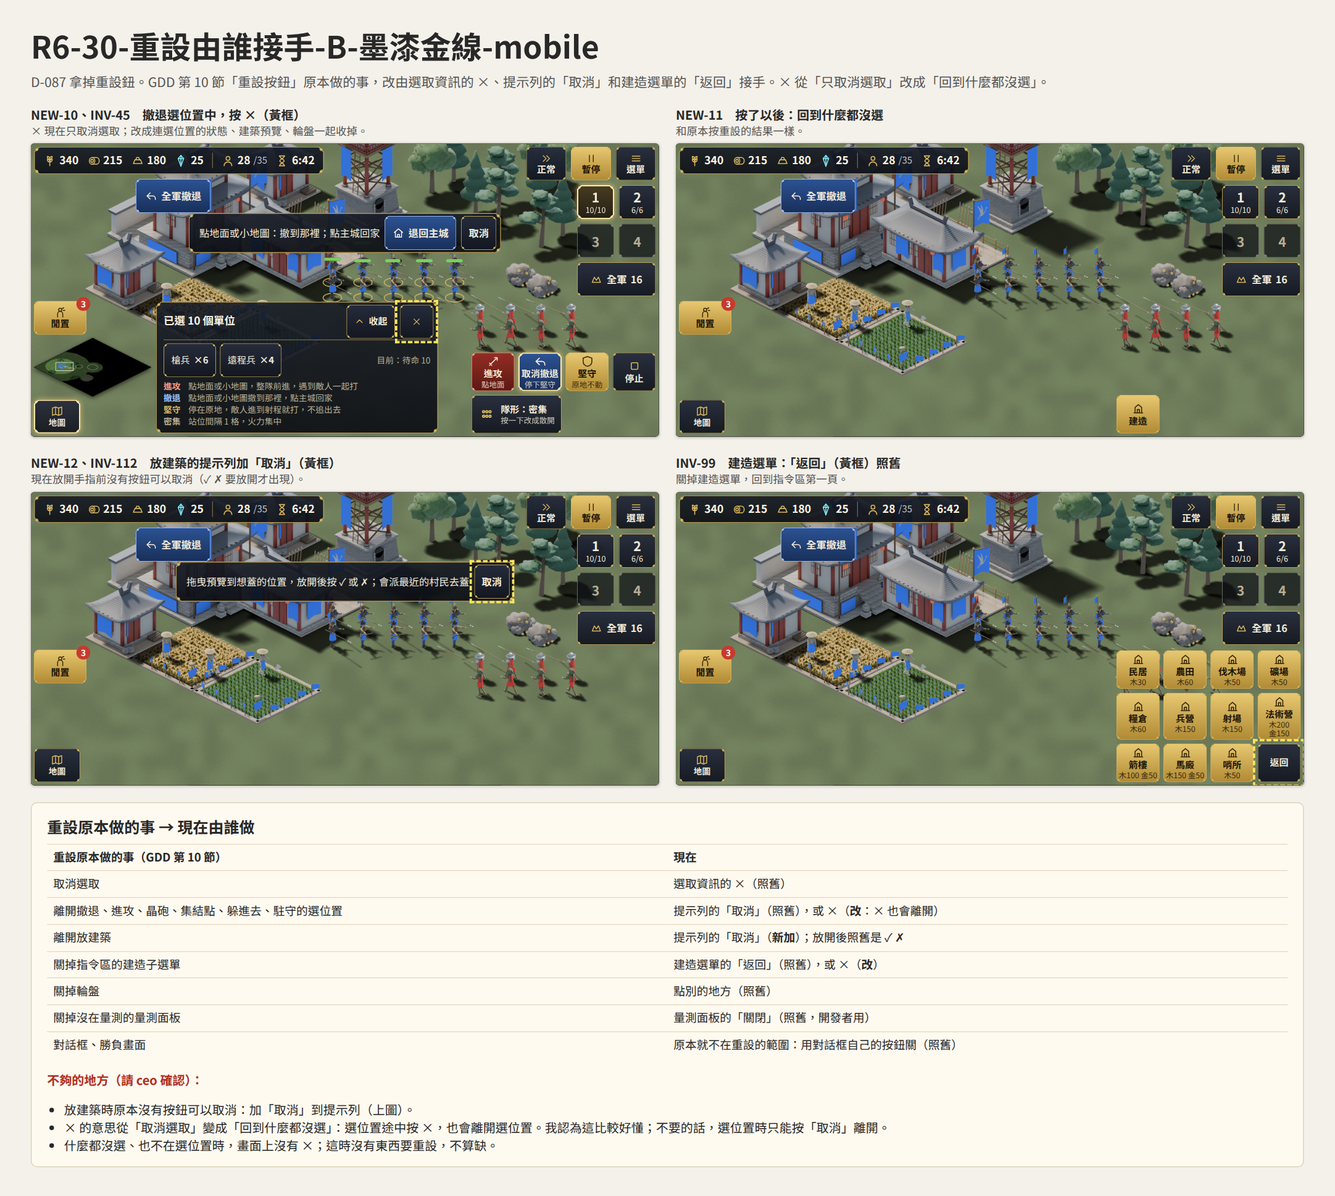
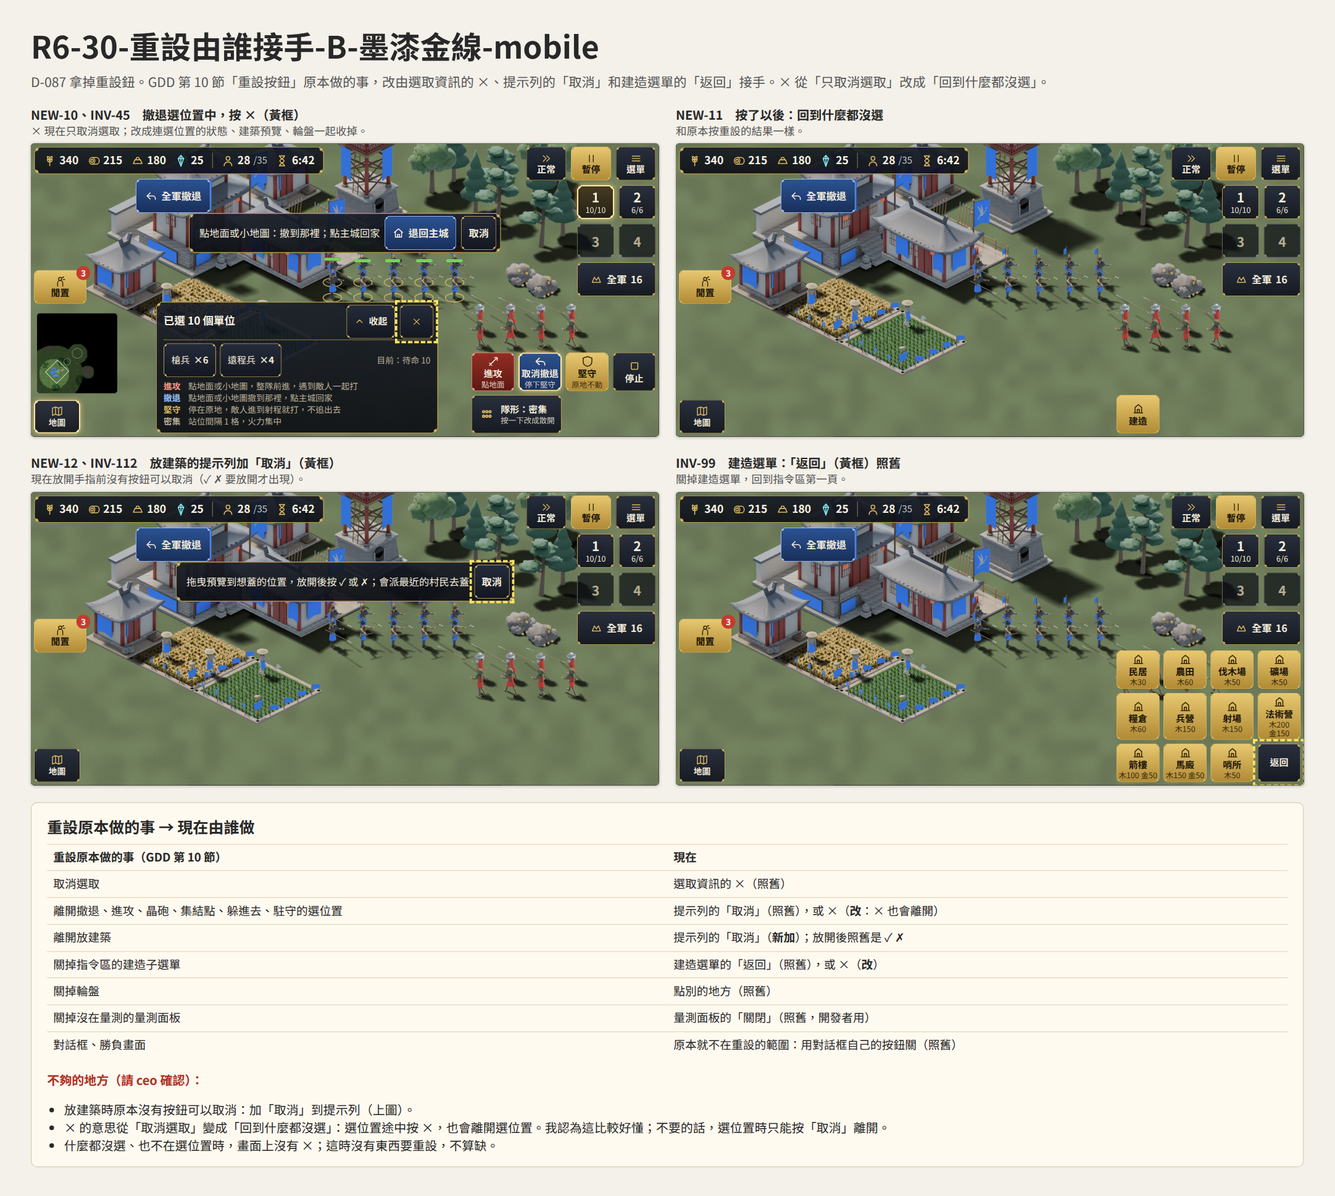
R6：使用者看過整套的兩項修改——小地圖改方形、攻下城鎮的對話框只留一個「留守」
- 使用者 2026-10-19：「小地圖用正方形。留守只需要一個統一的就好，反正野只能選一種」。
- 小地圖：方形 112×112，放在地圖鈕上方；戰場照舊是菱形，所以鏡頭框是斜的。開局、被攻擊、
  開局提示三種也改方形。閒置和全體回城往上移 40 pt，地圖打開時不會被擋住（不論開或關，位置都一樣）。
- 攻下對話框：搶和治理共用一個「留守 − N + 名」，在兩個大按鈕下面；預設小鎮 1、大城 3（D-084），
  只能治理時也一樣。spec.md 的 R6-20 加了規則。
- 重拍有改到的設計稿和動畫 02、06、07；R6-18 只有反鋸齒的差別，保留原檔。

diff --git a/design/r6/mock/states.js b/design/r6/mock/states.js
@@ -12,9 +12,9 @@
     "INV-38": { left: { idle: 0, map: "closed" } },                          // 沒有閒置的村民：閒置鈕不出現
     "INV-39": { left: { idle: 3, map: "closed" } },                          // 有閒置的村民
     "INV-40": { left: { idle: 3, map: "open" } },                            // 地圖打開
-    "INV-41": { left: { idle: 0, map: "open", minimap: "minimap-diamond-start" }, sel: null, cmds: "none", hp: false, field: "field-THEME-plain" },
-    "INV-42": { left: { idle: 3, map: "open", minimap: "minimap-diamond-hit" }, arrows: [{ x: 600, y: 40, r: -90 }] },
-    "INV-43": { left: { idle: 0, map: "open", minimap: "minimap-diamond-hint" }, sel: null, cmds: "none", hp: false, field: "field-THEME-plain" },
+    "INV-41": { left: { idle: 0, map: "open", minimap: "minimap-square-start" }, sel: null, cmds: "none", hp: false, field: "field-THEME-plain" },
+    "INV-42": { left: { idle: 3, map: "open", minimap: "minimap-square-hit" }, arrows: [{ x: 600, y: 40, r: -90 }] },
+    "INV-43": { left: { idle: 0, map: "open", minimap: "minimap-square-hint" }, sel: null, cmds: "none", hp: false, field: "field-THEME-plain" },
     "NEW-01": { left: { idle: 3, map: "closed" }, sel: null, cmds: "none", hp: false, field: "field-THEME-plain" },   // 地圖收著
     "NEW-02": { left: { idle: 3, map: "closed", recall: "hit" }, sel: null, cmds: "none", hp: false, field: "field-THEME-raid",
                 arrows: [], toast: "家裡被攻擊：主城附近有敵兵" },
@@ -22,7 +22,7 @@
     "NEW-03": { left: { idle: 3, map: "open" }, ret: "active",                // 撤退選位置：小地圖自動打開
                 prompt: { text: "點地面或小地圖：撤到那裡；點主城回家", buttons: [B("退回主城", { ic: "home", cls: "blue" }), B("取消", { cls: "sec" })] } },
     "NEW-04": { left: { idle: 3, map: "closed", alarm: 2 }, arrows: [{ x: 600, y: 40, r: -90 }, { x: 40, y: 150, r: 180 }] },   // 收著時被攻擊
-    "NEW-05": { left: { idle: 3, map: "open", minimap: "minimap-diamond-hit" }, arrows: [{ x: 600, y: 40, r: -90 }] },
+    "NEW-05": { left: { idle: 3, map: "open", minimap: "minimap-square-hit" }, arrows: [{ x: 600, y: 40, r: -90 }] },
   });
   // ----- R6-22 地圖鈕收著時的警報（兩格：亮、暗，0.4 秒換一次；減少動態效果時一直是亮的那格）
   S["NEW-04b"] = { left: { idle: 3, map: "closed", alarm: 2, dim: true }, arrows: [{ x: 600, y: 40, r: -90 }, { x: 40, y: 150, r: 180 }] };
@@ -201,8 +201,9 @@
   const capture = (city, only) => D(only ? `攻下${city ? "大城" : "小鎮"}！只能治理` : `攻下${city ? "大城" : "小鎮"}！搶還是治理？`,
     `<div class="big2">${only ? "" : B("搶", { cls: "plunder", sub: `部隊留下搶 ${city ? 25 : 15} 秒，拿一大筆糧、金、魔晶；城鎮變成廢墟 4 分鐘` })}` +
     `${B("治理", { cls: "govern", sub: `投入金和木修繕 ${city ? 60 : 45} 秒，之後每分鐘產出、加人口；要留兵駐守` })}</div>` +
-    (only ? `<p class="small">這座城這局已經被搶過，只能治理</p>` : `<div class="stayrow">搶：留守 ${B("−", { cls: "sec" })}<span class="num">${city ? 3 : 1}</span>${B("+", { cls: "sec" })} 名</div>`) +
-    `<div class="stayrow">治理：留守 ${B("−", { cls: "sec" })}<span class="num">${city ? 3 : 1}</span>${B("+", { cls: "sec" })} 名</div>` +
+    (only ? `<p class="small">這座城這局已經被搶過，只能治理</p>` : "") +
+    // one stepper for both choices (the user 2026-10-19: 「留守只需要一個統一的就好，反正野只能選一種」); D-084: small 1, big 3
+    `<div class="stayrow">留守 ${B("−", { cls: "sec" })}<span class="num">${city ? 3 : 1}</span>${B("+", { cls: "sec" })} 名</div>` +
     `<p class="small">留守的兵改成堅守，不跟「全軍」走，也會離開原本的編隊。</p>` + btns(B("稍後再決定（點城鎮也能選）", { cls: "sec" })));
   const hint = (random, off) => D("魔晶從城鎮來", `<p>法師要用魔晶。魔晶主要從城鎮來：帶兵打倒城裡的民兵，就能選「搶」或「治理」。</p>
     <p>搶：馬上拿到一筆糧、金和魔晶，每座城一局只能搶一次。治理：修好之後，每分鐘都有魔晶。</p>
@@ -222,8 +223,8 @@
     "INV-121": { dialog: D("預留", `<p class="small">自動訓練只用超過這些的資源；預設留的夠蓋法術營、放 3 發晶砲。</p>` + rv("糧", 150) + rv("木", 200) + rv("金", 150) + rv("魔晶", 15) +
       btns(B("預設", { cls: "sec" }), B("取消", { cls: "sec" }), B("套用", { cls: "pri" }))) },
     "INV-122": { dialog: capture(false, false) }, "INV-123": { dialog: capture(true, false) }, "INV-124": { dialog: capture(false, true) },
-    "INV-125": { dialog: hint(false, false), top: { paused: true }, left: { idle: 0, map: "open", minimap: "minimap-diamond-hint" }, ...NOSEL },
-    "INV-126": { dialog: hint(true, false), top: { paused: true }, left: { idle: 0, map: "open", minimap: "minimap-diamond-start" }, ...NOSEL },
+    "INV-125": { dialog: hint(false, false), top: { paused: true }, left: { idle: 0, map: "open", minimap: "minimap-square-hint" }, ...NOSEL },
+    "INV-126": { dialog: hint(true, false), top: { paused: true }, left: { idle: 0, map: "open", minimap: "minimap-square-start" }, ...NOSEL },
     "INV-127": { dialog: hint(false, true) },
   });
   // ----- R6-21 勝負

diff --git a/design/r6/mock/boards.js b/design/r6/mock/boards.js
@@ -3,7 +3,7 @@
 window.R6_BOARDS = {
   "R6-13": {
     id: "R6-13", name: "左邊",
-    sub: "左邊照 D-087 選的 C「需要時才出現」：重設拿掉（由 × 和「取消」接手，見 R6-30），閒置只在有閒置的村民時出現，全體回城只在家裡被打時跳出來，小地圖收進「地圖」鈕（菱形，D-087）。每格是實際大小（1 pt = 1 px 的兩倍放大）。",
+    sub: "左邊照 D-087 選的 C「需要時才出現」：重設拿掉（由 × 和「取消」接手，見 R6-30），閒置只在有閒置的村民時出現，全體回城只在家裡被打時跳出來，小地圖收進「地圖」鈕。小地圖是方形（使用者 2026-10-19）：戰場是斜 45 度的菱形，所以小地圖上的鏡頭框是斜的。",
     rows: [
       [{ state: "INV-38", inv: ["INV-35", "INV-36", "INV-38"], cap: "平常：左邊只剩「地圖」鈕", note: "沒有閒置的村民、家裡沒被打。重設鈕拿掉（INV-35），全體回城平常收在選單（INV-36）。" },
        { state: "INV-39", inv: ["INV-39"], cap: "有閒置的村民：閒置鈕出現", note: "紅點是人數。點一下跳到下一名，長按全選（照舊）。" }],
@@ -21,7 +21,7 @@ window.R6_BOARDS = {
       <tr><td>回去工作</td><td>玩家按了全體回城（跳出來的、或選單裡的），村民躲著時</td><td>同一個位置</td><td>玩家按了它（村民回去工作）</td></tr>
       <tr><td>選單裡的全體回城</td><td>一直都在；村民躲著時寫「回去工作」</td><td>選單（R6-20）</td><td>—</td></tr>
       <tr><td>地圖鈕</td><td>一直都在</td><td>左下</td><td>—</td></tr>
-      <tr><td>小地圖</td><td>按地圖鈕；或進攻、撤退開始選位置時自動打開</td><td>地圖鈕上方</td><td>再按地圖鈕；自動打開的，在選好位置或取消時收回</td></tr>
+      <tr><td>小地圖（方形 112×112）</td><td>按地圖鈕；或進攻、撤退開始選位置時自動打開</td><td>地圖鈕上方</td><td>再按地圖鈕；自動打開的，在選好位置或取消時收回</td></tr>
     </table><ul><li>全體回城只提醒，不會自己叫村民回城，也不會自己讓他們回去工作。</li>
       <li>12 格、15 秒是建議值，原型試玩後可以調。</li></ul>`,
   },
@@ -134,7 +134,11 @@ Object.assign(window.R6_BOARDS, {
       [c("INV-113", ["INV-113"], "放建築：離民兵太近的警告（第二行）", PROMPT), c("INV-114", ["INV-114"], "放開手指：✓ ✗（可以蓋）", [330, 200, 320, 130])],
       [c("INV-115", ["INV-115", "INV-142"], "放開手指：預覽紅、✓ 不能按", [330, 200, 320, 130])]] },
   "R6-20": { id: "R6-20", name: "對話框",
-    sub: "對話框開著時全畫面暗下來，用對話框自己的按鈕關。選單多了「全體回城」（D-087：平常收在這裡，村民躲著時變「回去工作」）和「設定」（介面風格 A／B）。實際大小。",
+    sub: "對話框開著時全畫面暗下來，用對話框自己的按鈕關。選單多了「全體回城」（D-087：平常收在這裡，村民躲著時變「回去工作」）和「設定」（介面風格 A／B）。攻下城鎮的對話框只有一個「留守」（使用者 2026-10-19）。實際大小。",
+    rules: `<h2>規則（給 client）</h2><ul>
+      <li>攻下城鎮的對話框：搶和治理共用一個「留守 − N + 名」，放在兩個大按鈕下面；選搶或選治理，都照這個數字留兵。</li>
+      <li>預設照 D-084：小鎮 1 名、大城 3 名，扣掉已經在那裡留守的；不能少於 0，也不能多於城鎮範圍內可以留守的兵。</li>
+      <li>只能治理（這局搶過）時，一樣只有這一個。說明那一行照舊：「留守的兵改成堅守，不跟『全軍』走，也會離開原本的編隊。」</li></ul>`,
     rows: [[F("INV-117", ["INV-116", "INV-117"], "選單"), F("NEW-06", ["NEW-06"], "選單：村民躲著時是「回去工作」")],
       [F("NEW-07", ["NEW-07"], "設定：介面風格（A 銅木，預設）", "點一下就換，馬上生效，下次打開也照這個。"), F("NEW-08", ["NEW-08"], "設定：選了 B 墨漆金線")],
       [F("INV-118b", ["INV-118"], "兵種相剋（有騎兵時四列）"), F("INV-118a", ["INV-118"], "兵種相剋（三列）")],

diff --git a/design/r6/mock/ui.css b/design/r6/mock/ui.css
@@ -1,11 +1,11 @@
 /* R6 B.3: layout of the formal interface on top of themes.css (the looks). D-087: left column C, diamond minimap. */
 
 /* left: 全體回城 (only when home is hit), 閒置 (only while someone idles), the 地圖 button and the minimap it opens */
-.recall { left: 4px; bottom: 186px; }
+.recall { left: 4px; bottom: 224px; }
 .recall .b { width: 100px; min-height: 50px; flex-direction: column; gap: 0; padding: 3px 0 4px; }
 .recall .b .lb { font-size: 13px; line-height: 1.15; }
 .recall .b .sub { line-height: 1.1; }
-.idlebox { left: 4px; bottom: 132px; }
+.idlebox { left: 4px; bottom: 172px; }
 .idlebox .b { width: 68px; flex-direction: column; gap: 1px; padding: 2px 0; }
 .idlebox .b .lb { font-size: 12px; line-height: 1.05; }
 .idlebox .cnt, .maptab .badge { position: absolute; top: -5px; right: -5px; min-width: 18px; height: 18px; padding: 0 4px; border-radius: 9px;
@@ -237,5 +237,5 @@
 .screen:not(:has(.sel)) > .toast { bottom: 110px; }
 
 /* R6-04: the square minimap of a square map, in a framed panel */
-.screen > .minimap.sqmap { width: 120px; height: 120px; padding: 5px; filter: none; }
+.screen > .minimap.sqmap { width: 112px; height: 112px; padding: 4px; filter: none; }
 .screen > .minimap.sqmap img { border-radius: 4px; }

diff --git a/design/r6/mock/app.js b/design/r6/mock/app.js
@@ -107,8 +107,8 @@ const PIECES = {
     add(`<div class="maptab ${l.map === "open" ? "is-open" : ""} ${l.alarm && !l.dim ? "is-alarm" : ""}">${btn("地圖", { ic: "map", cls: "sec", state: l.map === "open" ? "active" : "" })}${alarm}</div>`);
     if (l.map === "open") {
       const k = s.anim === "map" ? ease(T) : 1;
-      const sq = l.mmShape === "square";       // R6-04: a square map has a square minimap
-      add(`<div class="minimap ${sq ? "sqmap panel" : ""}" style="transform-origin:0 100%;transform:scale(${0.6 + 0.4 * k});opacity:${k}"><img src="../build/${l.minimap || "minimap-diamond"}.png" alt=""></div>`);
+      // the square minimap (the user 2026-10-19: 「小地圖用正方形」), 112 x 112 like the prototype's, above the 地圖 button
+      add(`<div class="minimap sqmap panel" style="transform-origin:0 100%;transform:scale(${0.6 + 0.4 * k});opacity:${k}"><img src="../build/${l.minimap || "minimap-square"}.png" alt=""></div>`);
     }
   },
   sel(s) {

diff --git a/design/r6/common/minimap.py b/design/r6/common/minimap.py
@@ -75,8 +75,13 @@ def camera_poly(centre, to_px):
     return [to_px(x, y) for x, y in corners]
 
 
-def square(size_px, scene, k=4):
+def square(size_px, scene, k=4, mode="mid"):
+    """The map as its grid (+x right, +y down), the user's choice 2026-10-19 (「小地圖用正方形」): the battlefield
+    stays a diamond, so the camera's view is a tilted frame. mode as diamond()."""
     img, vis = world()
+    if mode == "start":
+        yy, xx = np.mgrid[0:N, 0:N]
+        vis = np.where(np.hypot(xx - 20, yy - 72) < 14, 1.0, 0.0).astype(np.float32)
     S = size_px * k
     cells = Image.fromarray((img * vis[..., None]).clip(0, 255).astype(np.uint8), "RGB").resize((S, S), Image.NEAREST)
     can = cells.convert("RGBA")
@@ -85,6 +90,16 @@ def square(size_px, scene, k=4):
     marks(dr, to_px, 1.2 * k * size_px / 312, scene)
     cam = camera_poly(scene["centre"], to_px)
     dr.line(cam + [cam[0]], fill=(255, 255, 255, 235), width=int(2.2 * k * size_px / 312))
+    unit = k * size_px / 312
+    if mode == "hit":
+        for x, y in ((26, 74), (40, 60)):
+            px, py = to_px(x, y)
+            dr.ellipse([px - 5 * unit, py - 5 * unit, px + 5 * unit, py + 5 * unit], fill=(255, 59, 48, 255))
+            dr.ellipse([px - 11 * unit, py - 11 * unit, px + 11 * unit, py + 11 * unit], outline=(255, 59, 48, 220), width=int(2.5 * unit))
+    if mode == "hint":
+        px, py = to_px(36, 58)
+        for r, w in ((20, 7), (13, 4)):
+            dr.ellipse([px - r * unit, py - r * unit, px + r * unit, py + r * unit], outline=(122, 240, 255, 255), width=int(w * unit))
     return can.resize((size_px, size_px), Image.LANCZOS)
 
 

diff --git a/design/r6/common/spec.py b/design/r6/common/spec.py
@@ -59,7 +59,7 @@ def main():
          "- **字**：iPhone 內建的字（PingFang TC），只用兩種粗細：一般 400、粗 700。不把字型放進遊戲（ceo 2026-10-18）。",
          "- **按鈕的四種狀態**（R6-40）：一般、按下（手指碰到就換，放開 120 ms 回來）、亮著（選中、開著）、不能按（灰，按不下去；建造選單寫原因，例如「要先蓋 兵營」）。",
          "- **顏色的意思**：進攻都是紅、撤退都是藍（D-080），堅守是金；主要按鈕金色、一般按鈕木色（A）或墨色（B）。",
-         "- **戰場維持菱形**（斜 45 度，D-085）：使用者 2026-10-18 看過 R6-04 的方形「甲 方形斜看」「乙 正上方俯視」後選的。小地圖也照舊是菱形（D-087）。",
+         "- **戰場維持菱形**（斜 45 度，D-085）：使用者 2026-10-18 看過 R6-04 的方形「甲 方形斜看」「乙 正上方俯視」後選的。小地圖改成方形（使用者 2026-10-19：「小地圖用正方形」，取代 D-087 的菱形）：地圖照格子畫，鏡頭框是斜的。",
          "- **選取資訊比原型高約 30 pt**（171 pt）：收起、×、兵種鈕都改成 44 pt，戰場少露出這一條。是為了 44 pt 規則刻意換的。",
          "- **兩種風格只換樣子，排版完全一樣**（R6-41、R6-42、R6-43）。切換在 選單 → 設定 → 介面風格（R6-20），馬上生效，存在這支手機上。",
          "- **拿掉的**：INV-16「原型介面」標示；左邊的重設鈕（D-087，見第 4 節）。INV-128 量測面板照舊（開發者用，不改樣式）。",

diff --git a/design/r6/common/anim.py b/design/r6/common/anim.py
@@ -29,7 +29,7 @@ ANIMS = [
      "光暈 0.8 秒一次；最後一次被打後 6 秒消失。", "不閃，一直亮。"),
     ("05", "地圖鈕警報", "a", [0, 290, 130, 90], [("NEW-04", 1, "亮", 400), ("NEW-04b", 1, "暗（0.4 秒後）", 400)],
      "小地圖收著、有地方被打時；0.4 秒換一次。", "不閃，一直是紅的。"),
-    ("06", "全體回城跳出", "a", [0, 120, 260, 260], [("A-recall-in", 0, "0 ms", 100), ("A-recall-in", 0.5, "100 ms", 100), ("A-recall-in", 1, "200 ms：到位", 1500),
+    ("06", "全體回城跳出", "a", [0, 90, 260, 290], [("A-recall-in", 0, "0 ms", 100), ("A-recall-in", 0.5, "100 ms", 100), ("A-recall-in", 1, "200 ms：到位", 1500),
      ("A-recall-in", 0.5, "收回：100 ms", 100), ("A-recall-in", 0, "收回：200 ms", 600)],
      "從左邊滑進來、淡入（200 ms）；收回時反過來。", "直接出現、直接消失。"),
     ("07", "地圖打開", "a", [0, 180, 260, 200], [("A-map", 0, "0 ms", 75), ("A-map", 0.5, "75 ms", 75), ("A-map", 1, "150 ms：打開", 1200),

diff --git a/design/r6/common/build.py b/design/r6/common/build.py
@@ -32,6 +32,7 @@ if __name__ == "__main__":
     minimap.diamond(504, sc).save(OUT / "minimap-diamond.png")
     for mode in ("start", "hit", "hint"):
         minimap.diamond(504, sc, mode=mode).save(OUT / f"minimap-diamond-{mode}.png")
+        minimap.square(312, sc, mode=mode).save(OUT / f"minimap-square-{mode}.png")
     # the battlefield without the selection rings, and home under a raid (R6-13)
     for t in RING:
         img, _ = field.render(sc, art)

diff --git a/design/r6/spec.md b/design/r6/spec.md
@@ -11,7 +11,7 @@
 - **字**：iPhone 內建的字（PingFang TC），只用兩種粗細：一般 400、粗 700。不把字型放進遊戲（ceo 2026-10-18）。
 - **按鈕的四種狀態**（R6-40）：一般、按下（手指碰到就換，放開 120 ms 回來）、亮著（選中、開著）、不能按（灰，按不下去；建造選單寫原因，例如「要先蓋 兵營」）。
 - **顏色的意思**：進攻都是紅、撤退都是藍（D-080），堅守是金；主要按鈕金色、一般按鈕木色（A）或墨色（B）。
-- **戰場維持菱形**（斜 45 度，D-085）：使用者 2026-10-18 看過 R6-04 的方形「甲 方形斜看」「乙 正上方俯視」後選的。小地圖也照舊是菱形（D-087）。
+- **戰場維持菱形**（斜 45 度，D-085）：使用者 2026-10-18 看過 R6-04 的方形「甲 方形斜看」「乙 正上方俯視」後選的。小地圖改成方形（使用者 2026-10-19：「小地圖用正方形」，取代 D-087 的菱形）：地圖照格子畫，鏡頭框是斜的。
 - **選取資訊比原型高約 30 pt**（171 pt）：收起、×、兵種鈕都改成 44 pt，戰場少露出這一條。是為了 44 pt 規則刻意換的。
 - **兩種風格只換樣子，排版完全一樣**（R6-41、R6-42、R6-43）。切換在 選單 → 設定 → 介面風格（R6-20），馬上生效，存在這支手機上。
 - **拿掉的**：INV-16「原型介面」標示；左邊的重設鈕（D-087，見第 4 節）。INV-128 量測面板照舊（開發者用，不改樣式）。
@@ -30,10 +30,10 @@
 | 編隊鈕（每顆） | INV-19 | 708 | 54 | 48 | 44 | 58 | 282 |
 | 全軍 | INV-19 | 708 | 154 | 102 | 44 | 4 | 182 |
 | 退1 | INV-33 | 658 | 54 | 44 | 44 | 112 | 282 |
-| 全體回城（跳出來） | NEW-02 | 4 | 144 | 100 | 50 | 710 | 186 |
-| 閒置 | INV-39 | 4 | 204 | 68 | 44 | 742 | 132 |
+| 全體回城（跳出來） | NEW-02 | 4 | 106 | 100 | 50 | 710 | 224 |
+| 閒置 | INV-39 | 4 | 164 | 68 | 44 | 742 | 172 |
 | 地圖鈕 | INV-39 | 4 | 332 | 60 | 44 | 750 | 4 |
-| 小地圖（菱形） | INV-40 | 4 | 252 | 152 | 76 | 658 | 52 |
+| 小地圖（方形） | INV-40 | 4 | 216 | 112 | 112 | 698 | 52 |
 | 選取資訊 | INV-44 | 162 | 205 | 366 | 171 | 286 | 4 |
 | × | INV-44 | 478 | 211 | 44 | 44 | 292 | 125 |
 | 收起 | INV-44 | 409 | 211 | 63 | 44 | 342 | 125 |
@@ -71,7 +71,7 @@
 
 ### R6-13 左邊
 
-左邊照 D-087 選的 C「需要時才出現」：重設拿掉（由 × 和「取消」接手，見 R6-30），閒置只在有閒置的村民時出現，全體回城只在家裡被打時跳出來，小地圖收進「地圖」鈕（菱形，D-087）。每格是實際大小（1 pt = 1 px 的兩倍放大）。
+左邊照 D-087 選的 C「需要時才出現」：重設拿掉（由 × 和「取消」接手，見 R6-30），閒置只在有閒置的村民時出現，全體回城只在家裡被打時跳出來，小地圖收進「地圖」鈕。小地圖是方形（使用者 2026-10-19）：戰場是斜 45 度的菱形，所以小地圖上的鏡頭框是斜的。
 
 涵蓋：INV-35、INV-36、INV-38、INV-39、INV-40、NEW-03、INV-41、INV-43、NEW-02、INV-37
 
@@ -82,7 +82,7 @@
 | 回去工作 | 玩家按了全體回城（跳出來的、或選單裡的），村民躲著時 | 同一個位置 | 玩家按了它（村民回去工作） |
 | 選單裡的全體回城 | 一直都在；村民躲著時寫「回去工作」 | 選單（R6-20） | — |
 | 地圖鈕 | 一直都在 | 左下 | — |
-| 小地圖 | 按地圖鈕；或進攻、撤退開始選位置時自動打開 | 地圖鈕上方 | 再按地圖鈕；自動打開的，在選好位置或取消時收回 |
+| 小地圖（方形 112×112） | 按地圖鈕；或進攻、撤退開始選位置時自動打開 | 地圖鈕上方 | 再按地圖鈕；自動打開的，在選好位置或取消時收回 |
 - 全體回城只提醒，不會自己叫村民回城，也不會自己讓他們回去工作。
 - 12 格、15 秒是建議值，原型試玩後可以調。
 
@@ -124,9 +124,13 @@
 
 ### R6-20 對話框
 
-對話框開著時全畫面暗下來，用對話框自己的按鈕關。選單多了「全體回城」（D-087：平常收在這裡，村民躲著時變「回去工作」）和「設定」（介面風格 A／B）。實際大小。
+對話框開著時全畫面暗下來，用對話框自己的按鈕關。選單多了「全體回城」（D-087：平常收在這裡，村民躲著時變「回去工作」）和「設定」（介面風格 A／B）。攻下城鎮的對話框只有一個「留守」（使用者 2026-10-19）。實際大小。
 
 涵蓋：INV-116、INV-117、NEW-06、NEW-07、NEW-08、INV-118、INV-119、INV-120、INV-121、INV-122、INV-123、INV-124、INV-125、INV-126、INV-127
+
+- 攻下城鎮的對話框：搶和治理共用一個「留守 − N + 名」，放在兩個大按鈕下面；選搶或選治理，都照這個數字留兵。
+- 預設照 D-084：小鎮 1 名、大城 3 名，扣掉已經在那裡留守的；不能少於 0，也不能多於城鎮範圍內可以留守的兵。
+- 只能治理（這局搶過）時，一樣只有這一個。說明那一行照舊：「留守的兵改成堅守，不跟『全軍』走，也會離開原本的編隊。」
 
 ### R6-21 勝負
 
